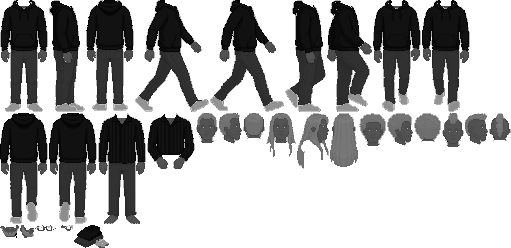
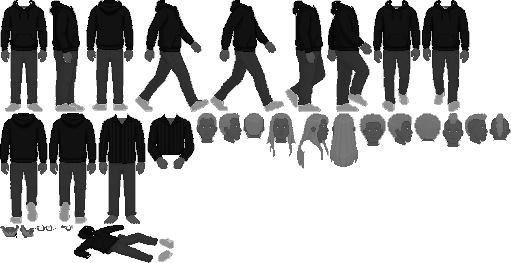
Bedroom: yesterday's clothes dropped on the floor, the mark back on the hoodie
Rick, 2026-11-17: "before it was spread on the ground like it was what the character took off before bed. I want
it to appear as if they are in a hurry and threw on yesterdays outfit." Art brief 08's painting (Rick: "2 is
fine") replaces brief 06's folded stack.

Asset build: props.clothes is cut from the new painting (100x38 at game size) and carries the place of the
Honeycomb mark on the hoodie's chest, from the hand-back's point; the folded heap had lost the mark.
Game: composeProp puts the mark there, as on the figure. drawClothes places the clothes by the middle of their
bottom edge. They lie on the open floor to the right of where he stands: spread 85 px wide, they would be
hidden behind him at the old spot beside the rug.
Tests first: the clothes are spread, not stacked; every pixel of the mark lies on the hoodie; in the bedroom they
are whole on the floor, clear of the bed and of him.

Claude-Session: https://claude.ai/code/session_01KRJMM4tMmN6TsQ7ggh1rTa

diff --git a/tests/intro-clothes.test.js b/tests/intro-clothes.test.js
@@ -1,0 +1,44 @@
+// Yesterday's clothes on the bedroom floor (art brief 08; review of 2026-11-18). Rick, 2026-11-17: "before it was spread
+// on the ground like it was what the character took off before bed. I want it to appear as if they are in a hurry and
+// threw on yesterdays outfit." The painting is spread wide, so where it lies matters: it has to be seen whole, both
+// while he sits up in bed and while he stands in his pyjamas beside it.
+import test from 'node:test';
+import assert from 'node:assert/strict';
+import { readFileSync } from 'node:fs';
+import './hero.test.js';                                   // installs the hero's sheet
+import { drawClothes } from '../js/screens/intro.js';
+import { placeHero, HERO_W } from '../js/engine/hero.js';
+import { DEFAULT_HERO } from '../js/engine/hero-parts.js';
+import { SHOTS } from '../js/intro/timeline.js';
+
+const INTRO = JSON.parse(readFileSync('assets/intro/intro.json', 'utf8'));
+const BED = SHOTS.find((s) => s.id === 'bedroom');
+
+/** Every pixel drawClothes paints, as a box: { x0, y0, x1, y1 } (x1, y1 exclusive). */
+function painted(x, y, hs) {
+  const b = { x0: Infinity, y0: Infinity, x1: -Infinity, y1: -Infinity };
+  const g = { fillStyle: '', fillRect(px, py, w, h) { b.x0 = Math.min(b.x0, px); b.y0 = Math.min(b.y0, py); b.x1 = Math.max(b.x1, px + w); b.y1 = Math.max(b.y1, py + h); } };
+  drawClothes(g, DEFAULT_HERO, x, y, hs);
+  return b;
+}
+
+test('the clothes are drawn with the middle of their bottom edge on the point given, at the hero\'s scale', () => {
+  const full = painted(160, 150, 1);
+  assert.deepEqual([full.x1 - full.x0, full.y1 - full.y0], [100, 38]);
+  assert.deepEqual([(full.x0 + full.x1) / 2, full.y1], [160, 150]);
+  const small = painted(160, 150, 0.85);
+  assert.deepEqual([small.x1 - small.x0, small.y1 - small.y0], [85, 32]);
+  assert.ok(Math.abs((small.x0 + small.x1) / 2 - 160) <= 0.5 && small.y1 === 150);
+});
+
+test('in the bedroom they lie whole on the floor, clear of the bed and of where he stands', () => {
+  const c = painted(INTRO.clothes.x, INTRO.clothes.y, BED.heroScale);
+  assert.ok(c.x0 >= 0 && c.x1 <= 320 && c.y1 <= 200, `on the picture (${JSON.stringify(c)})`);
+  assert.ok(c.y0 >= 160, 'on the floor, below the furniture along the wall');
+  assert.ok(c.y1 <= BED.standY, 'no nearer us than his feet');
+  // where he stands in his pyjamas (js/screens/intro.js: the manifest's stand.x is the sprite's left edge)
+  const feetX = INTRO.stand.x + Math.round((HERO_W * BED.heroScale) / 2);
+  const he = placeHero(DEFAULT_HERO, 'idle', feetX, BED.standY, BED.heroScale, { outfit: 'pj' });
+  assert.ok(c.x0 >= he.x + he.w || c.x1 <= he.x, `beside him, not behind him (clothes x ${c.x0}..${c.x1}, he x ${he.x}..${he.x + he.w})`);
+  assert.ok(c.x0 >= 112, 'clear of the bed');
+});

diff --git a/js/screens/intro.js b/js/screens/intro.js
@@ -58,14 +58,14 @@ function drawFlash(g, cfg, outfit, feetX, feetY, scale) {
   if (p) blit(g, silhouette(p.fig, [255, 255, 255]), p.x, p.y, p.scale, false);
 }
 
-/** Day clothes on the floor, in the hero's own colours: Art Claude's heap (props.clothes), at the hero's scale, its bottom
- * edge on `y` and its centre where the old drawn heap's was: (x, y) was that heap's left and floor row, `k` its scale
- * (2 × the hero's). Draws nothing without the sheet. */
-export function drawClothes(g, cfg, x, y, k = 1) {
-  const heap = composeProp('clothes', cfg);
-  if (!heap) return;
-  const hs = k / 2, centre = x + Math.round(25.5 * k), w = Math.round(heap.w * hs), h = Math.round(heap.h * hs);
-  blit(g, heap, centre - Math.round(w / 2), y - h, hs, false);
+/** Yesterday's clothes on the floor, in the hero's own colours and with the mark on the hoodie: Art Claude's painting
+ * (props.clothes, art brief 08) at the hero's scale `hs`, the middle of its bottom edge at (x, y). Draws nothing without
+ * the sheet. */
+export function drawClothes(g, cfg, x, y, hs = 1) {
+  const clothes = composeProp('clothes', cfg);
+  if (!clothes) return;
+  const w = Math.round(clothes.w * hs), h = Math.round(clothes.h * hs);
+  blit(g, clothes, x - Math.round(w / 2), y - h, hs, false);
 }
 
 export function createIntroScreen(game) {
@@ -156,7 +156,7 @@ export function createIntroScreen(game) {
     if (bareRoom && h.holding) { g.drawImage(bareRoom, 0, 0, 320, 200); plate = 'D_laptop_gone'; }
     if (e?.doorOpen) { openDoor(g, m); plate = assets.images.get('D_door_open') ? 'D_door_open' : plate; }
     showTitle(ctx, m, h.titled);
-    if (pile) drawClothes(g, cfg, m.clothes.x, m.clothes.y, 2 * hs);
+    if (pile) drawClothes(g, cfg, m.clothes.x, m.clothes.y, hs);
     heroState = { pose: h.pose, view: 'front', outfit: h.outfit, x: standX, visible: h.visible, pile, holding: h.holding, doorOpen: !!e?.doorOpen, plate, box: box(placeHero(cfg, 'idle', feet(standX), floorY, hs, { outfit: h.outfit })) };
     sound('title', h.titled); sound('rustle', h.stirring); sound('step', h.standing); sound('pickup', h.outfit === 'hoodie');
     sound('take', h.holding); sound('door', !!e?.doorOpen); sound('shut', !!e && !e.visible && !e.doorOpen);

diff --git a/tests/hero.test.js b/tests/hero.test.js
@@ -112,8 +112,16 @@ test('drawHero paints whole pixels in runs inside its box; the preview and the t
   const fig = composeFigure(DEFAULT_HERO, 'front'), sil = silhouette(fig, [255, 255, 255]);
   for (let i = 0; i < fig.data.length; i += 4) assert.ok(fig.data[i + 3] ? sil.data[i] === 255 && sil.data[i + 3] === 255 : sil.data[i + 3] === 0);
   const clothes = composeProp('clothes', DEFAULT_HERO);
-  assert.deepEqual([clothes.w, clothes.h, clothes.ax, clothes.ay], [35, 23, 17, 23]);
-  assert.notDeepEqual(clothes.data, composeProp('clothes', { ...DEFAULT_HERO, hoodie: 'honey' }).data, 'the heap takes his hoodie colour');
+  assert.deepEqual([clothes.w, clothes.h, clothes.ax, clothes.ay], [100, 38, 50, 38]);       // art brief 08: yesterday's outfit, dropped and spread
+  assert.notDeepEqual(clothes.data, composeProp('clothes', { ...DEFAULT_HERO, hoodie: 'honey' }).data, 'the clothes take his hoodie colour');
+  // the Honeycomb mark lies face up on the dropped hoodie's chest, where the manifest says, in the brand's own colours
+  const [mx0, my0] = MANIFEST.props.clothes.mark, rgb = (hex) => [1, 3, 5].map((i) => parseInt(hex.slice(i, i + 2), 16));
+  for (const [mx, my, colour] of HC_MARK_PIXELS) {
+    const o = ((my0 + my) * clothes.w + mx0 + mx) * 4;
+    assert.deepEqual([...clothes.data.slice(o, o + 4)], [...rgb(HC_MARK[colour]), 255], `mark pixel ${mx},${my}`);
+  }
+  const bare = composeProp('clothes', DEFAULT_HERO, { mark: false }), at = ((my0 + 4) * clothes.w + mx0 + 3) * 4;
+  assert.notDeepEqual([...bare.data.slice(at, at + 3)], [...clothes.data.slice(at, at + 3)], 'without the mark it is plain hoodie');
 });
 test('without the sheet nothing is drawn and nothing throws', () => {
   setHeroSheet(null);

diff --git a/js/engine/hero.js b/js/engine/hero.js
@@ -141,12 +141,23 @@ export function composeFigure(cfg, body, outfit = 'hoodie', { mark = true } = {}
   figCache.set(k, fig); if (figCache.size > 96) figCache.delete(figCache.keys().next().value);
   return fig;
 }
-/** A prop from the sheet in the hero's colours (the heap of day clothes): { w, h, ax, ay, data, eyes: [] }, anchored at its bottom centre. */
-export function composeProp(name, cfg) {
+/**
+ * A prop from the sheet in the hero's colours (yesterday's clothes on the bedroom floor): { w, h, ax, ay, data, eyes: [] },
+ * anchored at its bottom centre. Where the manifest gives the prop a `mark` (the top left of the mark's 9×9 on the
+ * dropped hoodie's chest) the Honeycomb mark is put there, as on the figure; `mark: false` leaves it off.
+ */
+export function composeProp(name, cfg, { mark = true } = {}) {
   const e = sheet?.m.props[name];
   if (!e) return null;
   const p = cut({ ...e, ax: Math.floor(e.w / 2), ay: e.h }), L = lut(cfg, 'hoodie'), data = new Uint8ClampedArray(p.w * p.h * 4);
   for (let i = 0; i < p.codes.length; i++) { const c = (p.codes[i] === ERASE ? 0 : p.codes[i]) * 4, o = i * 4; data[o] = L[c]; data[o + 1] = L[c + 1]; data[o + 2] = L[c + 2]; data[o + 3] = L[c + 3]; }
+  if (mark && e.mark) {
+    for (const [mx, my, colour] of HC_MARK_PIXELS) {
+      const x = e.mark[0] + mx, y = e.mark[1] + my;
+      if (x < 0 || y < 0 || x >= p.w || y >= p.h) continue;
+      const o = (y * p.w + x) * 4, c = HC_RGB[colour]; data[o] = c[0]; data[o + 1] = c[1]; data[o + 2] = c[2]; data[o + 3] = 255;
+    }
+  }
   return { w: p.w, h: p.h, ax: p.ax, ay: p.ay, view: 'front', body: name, data, eyes: [] };
 }
 /** The figure in one flat colour (the flash into day clothes). */

diff --git a/tests/e2e/painted-hero.test.js b/tests/e2e/painted-hero.test.js
@@ -270,7 +270,7 @@ test('the intro: he sits up in pale blue pyjamas with nothing of him below the b
   const stand = await page.evaluate(() => ({ ...window.__oq.intro.hero }));
   assert.equal(stand.pile, true);
   const m = await page.evaluate(() => window.__oq.intro.manifest);
-  const heap = await page.evaluate(([x, y]) => { const d = document.querySelector('#scene').getContext('2d').getImageData(x + 20, y - 24, 60, 24).data; const cols = new Set(); for (let i = 0; i < d.length; i += 4) cols.add(`${d[i]},${d[i + 1]},${d[i + 2]}`); return [...cols]; }, [m.clothes.x, m.clothes.y]);
+  const heap = await page.evaluate(([x, y]) => { const d = document.querySelector('#scene').getContext('2d').getImageData(x - 43, y - 32, 86, 32).data; const cols = new Set(); for (let i = 0; i < d.length; i += 4) cols.add(`${d[i]},${d[i + 1]},${d[i + 2]}`); return [...cols]; }, [m.clothes.x, m.clothes.y]);
   assert.ok(heap.includes('43,54,71') || heap.some((c) => { const [r, g, b] = c.split(',').map(Number); return b > r + 10 && b > 50 && b < 120; }), `the heap is in his hoodie's ink and his jeans' indigo (${heap.length} colours)`);
   await page.waitForFunction(() => window.__oq.intro.hero?.outfit === 'hoodie' && window.__oq.intro.hero.pose === 'idle', null, { timeout: 6000 });
   assert.equal((await page.evaluate(() => window.__oq.intro.hero.pile)), false);

diff --git a/tests/e2e/intro.test.js b/tests/e2e/intro.test.js
@@ -130,7 +130,7 @@ test('the bedroom shot shows the title and walks the hero out', async () => {
   await page.waitForFunction(() => window.__oq.intro.hero?.visible && window.__oq.intro.hero.pose === 'situp');
   // day clothes lie on the floor in the hero's own colours until the change, then they are on the hero
   const m = await page.evaluate(() => window.__oq.intro.manifest);
-  const pileBox = { x: m.clothes.x + 30, y: m.clothes.y - 18, w: 24, h: 16 };          // the painted heap (35×23 at 0.85) sits centred 43 px right of the manifest's x, its bottom on its y
+  const pileBox = { x: m.clothes.x - 34, y: m.clothes.y - 26, w: 24, h: 16 };          // inside the dropped hoodie: the clothes (100×38 at 0.85) lie with the middle of their bottom edge on the manifest's point
   const grab = (r) => page.evaluate((r) => [...document.getElementById('scene').getContext('2d').getImageData(r.x, r.y, r.w, r.h).data].join(), r);
   assert.equal((await intro(page)).hero.pile, true);
   const withPile = await grab(pileBox);

diff --git a/tools/tests/test_build_hero_set.py b/tools/tests/test_build_hero_set.py
@@ -235,10 +235,29 @@ def test_the_beard_and_the_glasses_are_small_and_sit_on_the_face():
             assert o['parts'].shape[0] <= head['parts'].shape[0] + 4 and o['parts'].shape[1] <= head['parts'].shape[1] + 4
 
 
-def test_the_clothes_heap_is_a_prop_in_the_same_parts():
-    heap = hp.props()['clothes']
-    assert heap['parts'].shape == (23, 35)
-    assert (heap['parts'] == P('hoodie')).sum() > 60 and (heap['parts'] == P('jeans')).sum() > 40 and (heap['parts'] == P('hair')).sum() == 0
+def test_the_clothes_are_yesterdays_outfit_dropped_on_the_floor_not_a_folded_stack():
+    # Rick, 2026-11-17: "before it was spread on the ground like it was what the character took off before bed. I want it
+    # to appear as if they are in a hurry and threw on yesterdays outfit." Art brief 08's painting (200x75) at half size.
+    heap = hp.props()['clothes']; parts = heap['parts']
+    assert parts.shape == (38, 100)
+    n = lambda name: int((parts == P(name)).sum())
+    assert n('hoodie') > 500 and n('jeans') > 400 and n('grey') > 60
+    assert n('hair') == 0 and n('skin') == 0                                   # nobody is in them
+    cols = lambda name: np.where((parts == P(name)).any(axis=0))[0]
+    hoodie, jeans, shoes = cols('hoodie'), cols('jeans'), cols('grey')
+    # spread along the floor, not stacked: the hoodie, then the jeans, then the shoes kicked off beyond them
+    assert hoodie.mean() < jeans.mean() < shoes.mean() and shoes.min() > hoodie.max()
+    his = np.where((parts > 0).any(axis=0))[0]
+    assert his.max() - his.min() + 1 >= 2.4 * parts.shape[0]                     # low and wide
+
+
+def test_the_mark_goes_on_the_dropped_hoodies_chest():
+    # the heap the game drew before the painted hero had the mark face up on the hoodie; the painted heap lost it. Art
+    # Claude's hand-back gives the chest's point on the painting, (60, 27); the mark is 9x9 and is centred there.
+    heap = hp.props()['clothes']; x, y = heap['mark']
+    assert (x + 4, y + 4) == (30, 13)
+    under = heap['parts'][y:y + 9, x:x + 9]
+    assert under.shape == (9, 9) and (under == P('hoodie')).all(), 'every pixel of the mark lies on the hoodie'
 
 
 # ---- the form the game reads: one sheet of codes, ramps to look colours up in ----
@@ -375,6 +394,7 @@ def test_the_built_sheet_and_manifest_are_what_the_game_needs():
     for k in ('beard', 'glasses'):
         for e in m[k].values(): box(e)
     box(m['props']['clothes'])
+    assert m['props']['clothes']['mark'] == list(hp.props()['clothes']['mark'])
     for i, p in enumerate(boxes):
         for q in boxes[i + 1:]:
             assert p[2] <= q[0] or q[2] <= p[0] or p[3] <= q[1] or q[3] <= p[1], (p, q)

diff --git a/tools/build_hero_painted.py b/tools/build_hero_painted.py
@@ -567,10 +567,19 @@ def overlays():
     return {what: {view: _overlay(what, view, *pair) for view, pair in views.items()} for what, views in OVERLAY_FILES.items()}
 
 
+# Yesterday's outfit, lying where it was dropped (art brief 08; Rick, 2026-11-17: "spread on the ground like it was what
+# the character took off before bed"). It replaces brief 06's folded stack, which nobody had asked for. The Honeycomb
+# mark lies face up on the hoodie: Art Claude's hand-back gives the chest's point on the painting, and the mark's 9x9
+# is centred on it.
+CLOTHES = 'art-drops/2026-11-17-clothes-on-the-floor/B_clothes.png'
+CLOTHES_CHEST = (60, 27)
+
+
 @functools.lru_cache(maxsize=None)
 def props():
-    parts, light = full(f'{SET}/B_clothes.png')
-    return {'clothes': dict(parts=parts, light=light, ax=parts.shape[1] // 2, ay=parts.shape[0])}
+    parts, light = full(CLOTHES)
+    mark = (CLOTHES_CHEST[0] // 2 - 4, CLOTHES_CHEST[1] // 2 - 4)
+    return {'clothes': dict(parts=parts, light=light, ax=parts.shape[1] // 2, ay=parts.shape[0], mark=mark)}
 
 
 ERASE = 255          # in the coded form: an overlay's pixel that clears what is under it
@@ -748,7 +757,7 @@ def build_set(out=None):
         'heads': {s: {v: entry(('heads', s, v), H[s][v]) for v in H[s]} for s in H},
         'beard': {v: entry(('beard', v), O['beard'][v]) for v in O['beard']},
         'glasses': {v: entry(('glasses', v), O['glasses'][v]) for v in O['glasses']},
-        'props': {n: entry(('props', n), Pr[n], anchor=False) for n in Pr},
+        'props': {n: {**entry(('props', n), Pr[n], anchor=False), 'mark': list(Pr[n]['mark'])} for n in Pr},
         'walk': {name: {'frames': [{'body': b, 'dy': dy} for b, dy in frames]} for name, frames in WALKS.items()},
         'mark': {'dx': MARK[0], 'dy': MARK[1], 'bodies': list(MARKED)},
         'eyes': _eyes(),

diff --git a/tools/build_intro.py b/tools/build_intro.py
@@ -24,7 +24,7 @@ COLOURS = 32                        # the EGA-style shots
 COLOURS_FOR = {'D_bedroom_vga': 192}   # the VGA bedroom keeps its full palette: at 32 a green plant or a yellow lampshade greys out
 CHANGE_COLOURS_FOR = {'D_bedroom_vga': 32}   # 192 + two chained edits of 32 still fit one 256-colour file
 DEFAULTS = {'wall': {'x': 24, 'y': 14, 'w': 232, 'h': 44}, 'bed': {'x': 60, 'y': 96}, 'stand': {'x': 90}, 'door': {'x': 286}, 'floorY': 176,
-            'clothes': {'x': 126, 'y': 184}, 'item': {'x': 200, 'y': 150}, 'doorway': {'x': 272, 'y': 60, 'w': 56, 'h': 116}}
+            'clothes': {'x': 190, 'y': 176}, 'item': {'x': 200, 'y': 150}, 'doorway': {'x': 272, 'y': 60, 'w': 56, 'h': 116}}
 LCD_MIN = (40, 10)                  # anything smaller is a stray green speck, not the pager's LCD
 CHANGE_COLOURS = 16
 LCD_FALLBACK = (92, 62, 136, 36)
